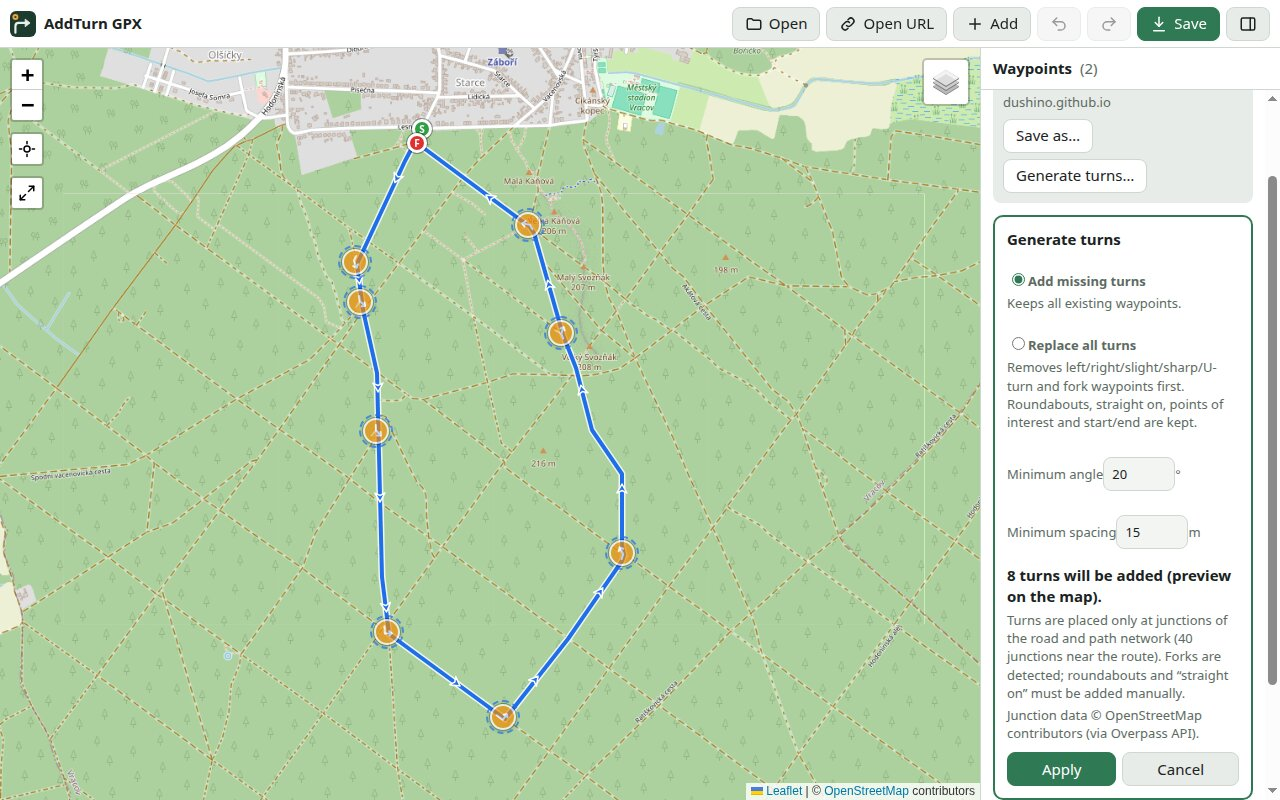
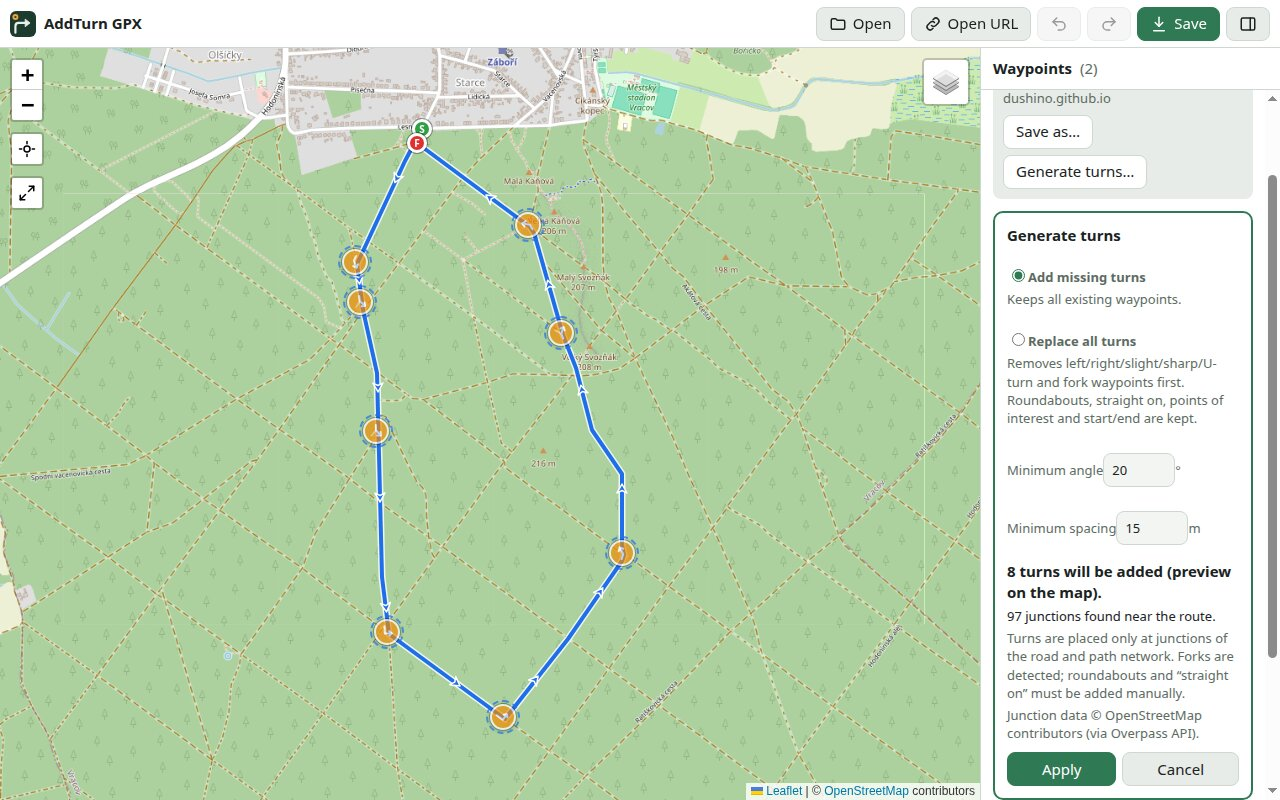
Editing reworked

diff --git a/index.html b/index.html
@@ -171,6 +171,7 @@
   #wpt-list .wname{ font-weight: 500; overflow-wrap: anywhere; }
   #wpt-list .wdesc{ color: var(--text-muted); font-size: 13px; overflow-wrap: anywhere; }
   .hint{ color: var(--text-muted); font-size: 13px; }
+  .add-hint{ margin: 0 0 10px; }
 
   /* ---------- Prvky na mapě ---------- */
   /* Waypoint: kroužek se šipkou typu odbočky (šipka natočená podle příjezdu) */
@@ -267,24 +268,6 @@
     font-size: 12px; font-weight: 600; background: #f08c00; color: #fff; vertical-align: 1px;
   }
 
-  /* Režim přidávání */
-  #add-bar{
-    position: absolute; top: 10px; left: 50%; transform: translateX(-50%);
-    display: flex; align-items: center; gap: 10px; flex-wrap: wrap; justify-content: center;
-    max-width: calc(100% - 120px);
-    padding: 8px 8px 8px 14px; border-radius: 10px;
-    background: var(--accent); color: var(--accent-text); box-shadow: var(--shadow);
-    z-index: 1150; font-weight: 600;
-  }
-  #add-bar .short{ display: none; }
-  @media (max-width: 760px){
-    #add-bar{ padding: 6px 6px 6px 12px; font-size: 14px; flex-wrap: nowrap; white-space: nowrap; max-width: calc(100% - 140px); }
-    #add-bar .short{ min-width: 0; overflow: hidden; text-overflow: ellipsis; }
-    #add-bar button{ flex: 0 0 auto; }
-    #add-bar .long{ display: none; }
-    #add-bar .short{ display: inline; }
-  }
-  body.adding #map{ cursor: crosshair; }
   .vdot{ pointer-events: none; }
 
   /* ---------- Dialog „Open URL“ ---------- */
@@ -368,10 +351,6 @@
       <svg viewBox="0 0 24 24" fill="none" stroke="currentColor" stroke-width="2" stroke-linecap="round" stroke-linejoin="round"><path d="M10 14a4 4 0 0 0 5.7 0l3-3a4 4 0 0 0-5.7-5.7l-1 1"/><path d="M14 10a4 4 0 0 0-5.7 0l-3 3a4 4 0 0 0 5.7 5.7l1-1"/></svg>
       <span class="label">Open URL</span>
     </button>
-    <button id="btn-add" disabled title="Add a waypoint: then tap the route line">
-      <svg viewBox="0 0 24 24" fill="none" stroke="currentColor" stroke-width="2" stroke-linecap="round" stroke-linejoin="round"><path d="M12 5v14M5 12h14"/></svg>
-      <span class="label">Add</span>
-    </button>
     <button id="btn-undo" disabled title="Undo (Ctrl+Z)">
       <svg viewBox="0 0 24 24" fill="none" stroke="currentColor" stroke-width="2" stroke-linecap="round" stroke-linejoin="round"><path d="M9 14 4 9l5-5"/><path d="M4 9h10.5a5.5 5.5 0 0 1 0 11H11"/></svg>
     </button>
@@ -398,10 +377,6 @@
     <div id="panel-body"></div>
   </aside>
   <div id="toast" hidden></div>
-  <div id="add-bar" hidden>
-    <span class="long">Tap the route to add a waypoint</span><span class="short">Tap the route</span>
-    <button id="add-cancel">Cancel</button>
-  </div>
 </div>
 
 <input type="file" id="file-input" hidden>
@@ -462,7 +437,8 @@ function isMobile(){ return mobileQuery.matches; }
 // ---------- Mapa ----------
 const savedView = loadJSON(VIEW_KEY, DEFAULT_VIEW);
 // Jemnější zoom: kolečko myši po ~½ úrovně (zoomSnap ¼), tlačítka +/− dál po celé úrovni
-const map = L.map("map", { zoomControl: true, zoomSnap: 0.25, zoomDelta: 1, wheelPxPerZoomLevel: 180 })
+// Dvojklik nepřibližuje: klik na trasu přidává waypoint, dvojklik by přidal a hned vybral
+const map = L.map("map", { zoomControl: true, zoomSnap: 0.25, zoomDelta: 1, wheelPxPerZoomLevel: 180, doubleClickZoom: false })
   .setView([savedView.lat, savedView.lng], savedView.zoom);
 
 // ---------- Mapové podklady ----------
@@ -1445,6 +1421,10 @@ function renderPanel(stats){
   const slot = el("div");
   slot.id = "editor-slot";
   panelBody.append(slot);
+  if (gpx.editable && trackLines.length) {
+    const tap = matchMedia("(pointer: coarse)").matches ? "Tap" : "Click";
+    panelBody.append(el("p", "hint add-hint", `${tap} the route to add a waypoint, ${tap.toLowerCase()} a waypoint to edit it.`));
+  }
 
   if (!wptItems.length) {
     panelBody.append(el("p", "empty", "No waypoints in this file."));
@@ -1492,7 +1472,7 @@ function selectWpt(i, { from }){
   const lis = panelBody.querySelectorAll("#wpt-list li");
   lis.forEach((li, j) => li.classList.toggle("selected", j === i));
   renderEditor();
-  showVertices(addMode || isEditable(w));
+  showVertices(isEditable(w));
   const editing = isEditable(w);
   if (from === "list") {
     map.setView(w.latlng, Math.max(map.getZoom(), 15), { animate: false });
@@ -1524,11 +1504,9 @@ function selectWpt(i, { from }){
 // Každá úprava vytvoří nový text souboru (změní se jen dotčený <wpt>), ten se
 // znovu načte a vykreslí. Undo/Redo drží předchozí texty v paměti.
 const editHistory = { undo: [], redo: [] };     // položky: { text, sel }
-let addMode = false;
 const vertexLayer = L.layerGroup().addTo(map);
 // Tažení značek jen bez dotykového ovládání (na dotyku by se pletlo s posunem mapy)
 const canDrag = !matchMedia("(pointer: coarse)").matches;
-const btnAdd = document.getElementById("btn-add");
 const btnUndo = document.getElementById("btn-undo");
 const btnRedo = document.getElementById("btn-redo");
 
@@ -1548,7 +1526,6 @@ function vertexData(li, idx){
 
 function updateEditButtons(){
   const hasRoute = !!(gpx && trackLines.length);
-  btnAdd.disabled = !(gpx?.editable && hasRoute);
   btnUndo.disabled = !editHistory.undo.length;
   btnRedo.disabled = !editHistory.redo.length;
 }
@@ -1750,8 +1727,7 @@ function showVertices(on){
   }
 }
 
-// ---- Režim přidávání ----
-const addBar = document.getElementById("add-bar");
+// ---- Klik do mapy: přidat / vybrat / zavřít ----
 // Je-li v editoru vybraný waypoint s typem bodu zájmu, nový bod dostane stejný
 // typ (rychlé přidávání více POI stejného druhu). Typy odboček se nepřebírají —
 // ty se navrhují podle úhlu trasy v místě nového bodu.
@@ -1760,33 +1736,52 @@ function presetAddType(){
   const c = isEditable(w) ? canonType(w.type) || "Waypoint" : null;
   return c && POI_TYPES[c] ? c : null;
 }
-function setAddMode(on){
-  addMode = on && !btnAdd.disabled;
-  document.body.classList.toggle("adding", addMode);
-  addBar.hidden = !addMode;
-  const preset = addMode ? presetAddType() : null;
-  addBar.querySelector(".long").textContent = "Tap the route to add " + (preset ? "a waypoint: " + typeLabel(preset) : "a waypoint");
-  addBar.querySelector(".short").textContent = preset ? "Tap the route: " + typeLabel(preset) : "Tap the route";
-  btnAdd.setAttribute("aria-pressed", String(addMode));
-  if (addMode && isMobile()) document.body.classList.remove("sheet-open");
-  showVertices(addMode || isEditable(wptItems[selectedWpt]));
+// Zrušit výběr waypointu a zavřít editor
+function deselectWpt(){
+  const w = wptItems[selectedWpt];
+  if (w) {
+    w.marker.closeTooltip();
+    w.marker.setIcon(iconFor(w, false));
+    w.marker.setZIndexOffset(wptZ(w));
+  }
+  selectedWpt = -1;
+  panelBody.querySelectorAll("#wpt-list li.selected").forEach(li => li.classList.remove("selected"));
+  document.getElementById("editor-slot")?.replaceChildren();
+  showVertices(false);
+  if (isMobile()) document.body.classList.remove("sheet-open");
 }
-btnAdd.addEventListener("click", () => setAddMode(!addMode));
-document.getElementById("add-cancel").addEventListener("click", () => setAddMode(false));
+// Waypoint, jehož značka je do maxPx od bodu kliknutí (nejbližší)
+const NEAR_WPT_PX = 20;
+function nearestWptPx(cp, maxPx = NEAR_WPT_PX){
+  let best = -1, bd = maxPx;
+  wptItems.forEach((w, i) => {
+    const d = map.latLngToContainerPoint(w.latlng).distanceTo(cp);
+    if (d <= bd) { bd = d; best = i; }
+  });
+  return best;
+}
 const SNAP_PX = 40;
+// Klik na trasu přidá waypoint; klik u existujícího waypointu ho vybere (editor);
+// klik jinam zruší výběr (a zavře kartu generátoru). Klik přímo na značku
+// obslouží značka sama.
 map.on("click", (e) => {
-  if (!addMode) return;
-  const target = routeTargetAt(e.containerPoint);
-  if (!target) { showToast("Tap on the route line – waypoints can only be placed on the route."); return; }
-  const preset = presetAddType();
-  setAddMode(false);
-  addWptAtTarget(target, preset);
+  if (!gpx) return;
+  const cp = e.containerPoint;
+  if (gen) {                    // otevřená karta generátoru: klik mimo trasu ji zavře, jinak nic
+    if (nearestWptPx(cp) < 0 && !routeTargetAt(cp)) closeGenerator();
+    return;
+  }
+  const near = nearestWptPx(cp);
+  if (near >= 0) { selectWpt(near, { from: "map" }); return; }
+  const target = gpx.editable ? routeTargetAt(cp) : null;
+  if (target) { addWptAtTarget(target, presetAddType()); return; }
+  deselectWpt();
 });
 
 // ---- Klávesnice ----
 window.addEventListener("keydown", (e) => {
   const typing = /^(INPUT|TEXTAREA|SELECT)$/.test(document.activeElement?.tagName);
-  if (e.key === "Escape" && addMode) { setAddMode(false); return; }
+  if (e.key === "Escape" && !typing) { if (gen) closeGenerator(); else if (selectedWpt >= 0) deselectWpt(); return; }
   if (!(e.ctrlKey || e.metaKey)) return;
   const k = e.key.toLowerCase();
   if (k === "s") { e.preventDefault(); if (gpx) saveGpx({ as: e.shiftKey }); return; }
@@ -2086,8 +2081,7 @@ function drawGenPreview(){
 
 async function openGenerator(){
   if (!gpx?.editable || !trackLines.length) return;
-  setAddMode(false);
-  if (selectedWpt >= 0) { const w = wptItems[selectedWpt]; w.marker.closeTooltip(); w.marker.setIcon(iconFor(w, false)); w.marker.setZIndexOffset(wptZ(w)); selectedWpt = -1; panelBody.querySelectorAll("#wpt-list li.selected").forEach(li => li.classList.remove("selected")); }
+  if (selectedWpt >= 0) deselectWpt();
   const saved = loadJSON(GEN_KEY, {});
   gen = { mode: "missing", minAngle: saved.minAngle ?? 20, spacing: saved.spacing ?? 15, loading: true };
   if (isMobile()) document.body.classList.add("sheet-open");
@@ -2244,7 +2238,6 @@ function setGpx(next, { fit = true, persist = true } = {}){
     next.cleanText = next.dirty ? null : next.text;   // text, který odpovídá souboru na disku
   }
   editHistory.undo.length = editHistory.redo.length = 0;
-  setAddMode(false);
   gpx = next;
   renderGpx(fit);
   if (persist) saveSession();

diff --git a/sw.js b/sw.js
@@ -6,7 +6,7 @@
 // stahované z cizích URL jdou mimo service worker přímo na síť, aby cache
 // nerostla bez omezení.
 
-const CACHE_NAME = "addturngpx-v19";
+const CACHE_NAME = "addturngpx-v20";
 const CORE_ASSETS = [
   "./",
   "./index.html",

diff --git a/README-CZ.md b/README-CZ.md
@@ -14,7 +14,7 @@ Hodinky Suunto při navigaci po trase ukazují pokyn (odboč vlevo, na rozcestí
 
 1. V **aplikaci Suunto** trasu nasdílej. Dostaneš odkaz (viz [Otevření trasy](#otevření-trasy)).
 2. V AddTurn GPX klikni na **Open URL** a odkaz vlož. Můžeš také otevřít soubor `.gpx` ze zařízení.
-3. V panelu klikni na **Generate turns…**, zkontroluj náhled na mapě a klikni na **Apply**. Nebo pokyny přidej sám tlačítkem **Add**.
+3. V panelu klikni na **Generate turns…**, zkontroluj náhled na mapě a klikni na **Apply**. Nebo pokyny přidej sám kliknutím na trasu.
 4. Klikni na **Save**.
 5. Uložený soubor naimportuj do aplikace Suunto a synchronizuj do hodinek.
 
@@ -30,7 +30,7 @@ Aplikace si pamatuje otevřený soubor i neuložené úpravy, takže zavřením 
 
 - **Mapa**: trasa se šipkami ve směru jízdy a waypointy. Tlačítka vlevo přibližují a oddalují, ukážou tvou polohu a **⤢ Fit route** ukáže celou trasu. Tlačítkem vrstev vpravo přepínáš mezi **OpenStreetMap**, **OpenTopoMap** (turistická mapa s vrstevnicemi) a **Satellite (Esri)**.
 - **Panel** (na počítači vpravo, na telefonu vysouvací panel dole): údaje o souboru, název, který ukážou hodinky (*Name on watch*), a seznam waypointů v pořadí, v jakém na ně na trase narazíš.
-- **Lišta**: Open, Open URL, Add, Undo, Redo, Save.
+- **Lišta**: Open, Open URL, Undo, Redo, Save.
 
 <img src="docs/img/mobile.jpg" alt="AddTurn GPX na telefonu" width="260">
 
@@ -58,10 +58,10 @@ Všech 78 typů waypointů, které Suunto zná, má vlastní ikonu. Další upoz
 
 ![Úprava waypointu](docs/img/editor.jpg)
 
-- **Přidání**: klikni na **Add** a pak klepni na čáru trasy. Nový waypoint se přichytí k nejbližšímu bodu trasy.
-  - Když v místě klepnutí žádný bod trasy není (dlouhý rovný úsek), aplikace vloží nový bod trasy přesně na čáru. Tvar trasy se nezmění.
+- **Přidání**: klikni (nebo klepni) na čáru trasy tam, kde ještě žádný waypoint není. Nový waypoint se přichytí k nejbližšímu bodu trasy a otevře se jeho editor.
+  - Když v místě kliknutí žádný bod trasy není (dlouhý rovný úsek), aplikace vloží nový bod trasy přesně na čáru. Tvar trasy se nezmění.
   - Typ se navrhne podle úhlu trasy v daném místě. Když je vybraný waypoint s typem bodu zájmu (třeba *Water point*), nový dostane stejný typ, takže jich rychle přidáš víc.
-- **Úprava**: vyber waypoint na mapě nebo v seznamu a otevře se editor.
+- **Úprava**: klikni na waypoint na mapě (nebo těsně vedle něj) či v seznamu a otevře se editor. Kliknutím do prázdného místa mapy nebo klávesou Esc editor zavřeš.
   - **Type (typ)**: nahoře pokyny k odbočení a kruhové objezdy, pod *Points of interest* body zájmu. Zelená tečka označuje typ navržený podle úhlu trasy.
   - **Name (název)** je nepovinný. Hodinky mohou dlouhé názvy zkrátit.
   - **◀ Previous point / Next point ▶** posunou waypoint po trase.
@@ -134,7 +134,7 @@ S jinými službami aplikace komunikuje jen kvůli těmto úkolům:
 | Ctrl+Y / Ctrl+Shift+Z | Znovu (Redo) |
 | Ctrl+S | Uložit |
 | Ctrl+Shift+S | Uložit jako… |
-| Esc | Zrušit přidávání waypointu |
+| Esc | Zavřít editor nebo kartu Generate turns |
 
 Na Macu místo Ctrl použij Cmd.
 
@@ -154,5 +154,5 @@ Na Macu místo Ctrl použij Cmd.
 - Celá aplikace je jeden soubor `index.html` (HTML, CSS a JavaScript) bez build kroku a bez závislostí kromě přiloženého Leafletu. `sw.js` je service worker pro provoz offline. Při každé změně souborů aplikace zvyš `CACHE_NAME`.
 - Spouštěj ji přes HTTP, například `python3 -m http.server` ve složce projektu, a otevři `http://localhost:8000`. Při otevření přímo ze souboru (`file://`) OpenStreetMap mapové dlaždice blokuje.
 - `samples/` obsahuje testovací soubory GPX: exporty ze Suunto, všechny typy odboček, kruhové objezdy a body zájmu, waypointy v bodech trasy, soubor ve `windows-1250` a vadné soubory.
-- `tests/` obsahuje automatické testy. Spouštějí se příkazem `node tests/run.mjs tests/generator.json tests/editing.json`, viz [tests/README.md](tests/README.md).
+- `tests/` obsahuje automatické testy. Spouštějí se příkazem `node tests/run.mjs tests/generator.json tests/editing.json tests/clicks.json`, viz [tests/README.md](tests/README.md).
 - `docs/dev/` obsahuje vývojové poznámky: rozhodnutí o návrhu, postup a seznam úkolů.

diff --git a/README.md b/README.md
@@ -14,7 +14,7 @@ Suunto watches show an instruction (turn left, keep right at a fork, …) and th
 
 1. In the **Suunto app**, share the route. You get a link (see [Opening a route](#opening-a-route)).
 2. In AddTurn GPX, click **Open URL** and paste the link. You can also open a `.gpx` file from your device.
-3. Click **Generate turns…** in the panel, check the preview on the map and click **Apply**. Or add instructions yourself with **Add**.
+3. Click **Generate turns…** in the panel, check the preview on the map and click **Apply**. Or add instructions yourself by clicking the route.
 4. Click **Save**.
 5. Import the saved file into the Suunto app and sync it to your watch.
 
@@ -30,7 +30,7 @@ The app remembers the open file and your unsaved changes, so closing the tab or 
 
 - **Map**: the route with arrows showing the direction of travel, plus the waypoints. The buttons on the left zoom in and out, show your location, and **⤢ Fit route** shows the whole route. The layers button on the right switches between **OpenStreetMap**, **OpenTopoMap** (topographic map with contour lines) and **Satellite (Esri)**.
 - **Panel** (on the right on a computer, a pull-up sheet at the bottom on a phone): file details, the name the watch will show (*Name on watch*), and the list of waypoints in the order you'll reach them on the route.
-- **Toolbar**: Open, Open URL, Add, Undo, Redo, Save.
+- **Toolbar**: Open, Open URL, Undo, Redo, Save.
 
 <img src="docs/img/mobile.jpg" alt="AddTurn GPX on a phone" width="260">
 
@@ -58,10 +58,10 @@ All 78 waypoint types that Suunto supports have their own icon. Other warnings i
 
 ![Editing a waypoint](docs/img/editor.jpg)
 
-- **Add**: click **Add**, then tap the route line. The new waypoint snaps to the nearest route point.
-  - If there is no route point near the place you tapped (a long straight section), the app adds a new route point exactly on the line. The shape of the route doesn't change.
+- **Add**: click (or tap) the route line where there is no waypoint yet. The new waypoint snaps to the nearest route point and its editor opens.
+  - If there is no route point near the place you clicked (a long straight section), the app adds a new route point exactly on the line. The shape of the route doesn't change.
   - The type is suggested from the angle of the route at that point. If a waypoint with a point-of-interest type is selected (for example *Water point*), the new one gets the same type, which makes adding several of them quick.
-- **Edit**: select a waypoint on the map or in the list to open the editor.
+- **Edit**: click a waypoint on the map (or close to it) or in the list to open the editor. Click an empty place of the map, or press Esc, to close the editor.
   - **Type**: turn instructions and roundabouts at the top, points of interest under *Points of interest*. A green dot marks the type suggested by the route angle.
   - **Name** (optional). Watches may shorten long names.
   - **◀ Previous point / Next point ▶** move the waypoint along the route.
@@ -134,7 +134,7 @@ The app talks to other services only for these tasks:
 | Ctrl+Y / Ctrl+Shift+Z | Redo |
 | Ctrl+S | Save |
 | Ctrl+Shift+S | Save as… |
-| Esc | Cancel adding a waypoint |
+| Esc | Close the editor or the Generate turns card |
 
 On a Mac, use Cmd instead of Ctrl.
 
@@ -154,5 +154,5 @@ On a Mac, use Cmd instead of Ctrl.
 - The whole app is a single `index.html` (HTML, CSS and JavaScript) with no build step and no dependencies apart from the bundled Leaflet. `sw.js` is the service worker for offline use. Increase `CACHE_NAME` whenever the app files change.
 - Run it over HTTP, for example `python3 -m http.server` in the project folder, then open `http://localhost:8000`. Opened directly as a file (`file://`), OpenStreetMap blocks the map tiles.
 - `samples/` contains test GPX files: Suunto exports, all turn types, roundabouts and points of interest, waypoints defined in route points, a `windows-1250` file and broken files.
-- `tests/` contains automated tests. Run them with `node tests/run.mjs tests/generator.json tests/editing.json`. See [tests/README.md](tests/README.md).
+- `tests/` contains automated tests. Run them with `node tests/run.mjs tests/generator.json tests/editing.json tests/clicks.json`. See [tests/README.md](tests/README.md).
 - `docs/dev/` contains development notes: design decisions, progress and the to-do list (in Czech).

diff --git a/docs/dev/PROGRESS.md b/docs/dev/PROGRESS.md
@@ -22,7 +22,7 @@ potvrzení od uživatele → další cyklus.
 | 10 | Dotykové pero na tabletu | uzavřeno bez změn — pero funguje jako přesnější prst, což uživateli vyhovuje (2026-10-16) |
 | 11 | README (EN/CZ) se snímky obrazovky | hotovo, potvrzeno uživatelem (2026-10-18) |
 | 12a | Generate turns: robustnost (chyby Overpass, cache), testy v `tests/` | implementováno, otestováno, čeká na potvrzení |
-| 12b | Přidání bodu klikem na trasu (bez tlačítka Add), klik na bod = editace | čeká na 12a |
+| 12b | Přidání bodu klikem na trasu (bez tlačítka Add), klik na bod = editace | implementováno, otestováno, čeká na potvrzení |
 
 ## Deník
 ### Cyklus 0 (2026-10-16)
@@ -180,3 +180,8 @@ potvrzení od uživatele → další cyklus.
 - **Testy v repu `tests/`:** `run.mjs` (vlastní statický server + headless Chrome + mock Overpass z `tests/fixtures/vracov-overpass.json` — data OSM API 0.6 kolem trasy Vracov, 76 cest; skutečný Overpass se v testech nevolá), `generator.json` (16 kroků vč. regrese „smazat bez uložení → znovu navrhne přesně smazané“ a „větší rozestup jen ubírá“), `editing.json` (11 kroků přesnosti textu). Vše prošlo.
 - Závěr k hlášení uživatele: logika generátoru po smazání bodů funguje; pozorování způsobil nedostupný/přetížený Overpass (aplikace to dřív hlásila jako „0 nových“ a výsledek cachovala).
 - **Hlášení uživatele po nasazení 12a (snímek):** „No junctions found near the route“ na trase Vracov. Reprodukováno: stejný dotaz na Overpass jednou vrátil 34 cest, o minutu později 0 cest bez `remark` (nejspíš vadná/přetížená instance za load balancerem). Oprava: `overpassQuery()` + v `loadJunctions` při prázdné odpovědi jedno automatické opakování po `OVERPASS_RETRY_MS` (2 s), pak chyba `OVERPASS_EMPTY` s Try again; prázdno se necachuje. Mock „empty“/„emptyOnce“ + 2 regresní testy; celkem 29/29. Cache v19.
+
+### Cyklus 12b – implementace (2026-10-18)
+- Uživatel potvrdil návrh beze změn (vč. kliku do prázdna = zavřít editor). Vlastní rozhodnutí (předloženo): dvojklik nepřibližuje (`doubleClickZoom: false`) — jinak by dvojklik na trasu přidal a hned vybral bod.
+- Odstraněno tlačítko Add, lišta režimu přidávání a `addMode`. `map.on("click")`: otevřená karta generátoru → klik mimo trasu ji zavře, jinak nic; waypoint do 20 px (`nearestWptPx`) → výběr + editor; trasa (`routeTargetAt`) → `addWptAtTarget(target, presetAddType())`; jinak `deselectWpt()` (zavře editor, na mobilu sbalí panel). Esc zavře generátor / editor. Nápověda v panelu „Click/Tap the route to add a waypoint, … a waypoint to edit it.“ Cache v20.
+- Test `tests/clicks.json` (11 kroků vč. mobilu, dlouhého úseku, generátoru); všechny sady 40/40. README EN/CZ a snímky `docs/img/` aktualizovány (bez tlačítka Add).

diff --git a/tests/README.md b/tests/README.md
@@ -3,7 +3,7 @@
 Automated tests run the app in headless Google Chrome.
 
 ```
-node tests/run.mjs tests/generator.json tests/editing.json
+node tests/run.mjs tests/generator.json tests/editing.json tests/clicks.json
 ```
 
 Requirements: Node.js 22+ and Google Chrome. The runner looks for a `google-chrome` command; set `CHROME=/path/to/chrome` if yours is elsewhere. The runner starts its own local web server for the project folder, so you don't need to run one. Set `VERBOSE=1` to print the value each step returns.
@@ -11,6 +11,7 @@ Requirements: Node.js 22+ and Google Chrome. The runner looks for a `google-chro
 | File | What it checks |
 | --- | --- |
 | `generator.json` | **Generate turns**: proposals at junctions, Apply/Undo, Add missing vs. Replace, deleting turns without saving and generating again, minimum spacing, settings, and server failures (overloaded server, empty answer with automatic retry, HTTP 429, request refused, timeout, a failed answer must not be cached) |
+| `clicks.json` | Adding by clicking the route, selecting by clicking near a waypoint, closing the editor by clicking an empty place or with Esc, type taken from a selected point of interest, phone layout, interplay with the Generate turns card |
 | `editing.json` | Exact file preservation: loading, changing a type or name, Undo/Redo, adding a waypoint on a route point, inserting a route point on a long segment (`suunto-rp:waypointIndices`), moving a waypoint, saving, `windows-1250` → UTF-8 |
 
 **The tests never contact the real Overpass API.** Requests to it are answered from `fixtures/vracov-overpass.json`, which holds OpenStreetMap data around `samples/Vracov 5km.gpx` (© OpenStreetMap contributors, ODbL), or replaced with simulated failures.

diff --git a/docs/dev/TODO.md b/docs/dev/TODO.md
@@ -40,3 +40,5 @@
 - [ ] **Nejnižší priorita (požadavek uživatele):** pro případnou další generaci aplikace analyzovat možnost plánování celé trasy (routing po síti cest, např. OSM / veřejný routovací server).
 - [ ] **Požadavek uživatele (2026-10-18, po testování):** „Přidat menu a klik levým tlačítkem myši a přepracovat logiku editace a přidání bodu.“ — upřesnit specifikaci (souvisí i s otevřeným bodem 7b). Po změně aktualizovat README (EN/CZ) a snímky.
 - [ ] Ikonu a text v aplikaci "AddTurn GPX" udělat klikací, ať vede na https://github.com/Dushino/addturngpx
+- [ ] Je možnost nějak logicky skupinovat POI? Již máme navigační instrukce, POI související s bezpečností. Ale zbývajících je hodně - pomohlo by, kdybychom měli více kategortí. Např. související s přírodou by pak mohly být zelené. Ale těch kategorí nesmí být příliš mnoho, jinak ztratí význam.
+- [ ] Ve výběru POI v postranním panelu seskupit POI podle kategorií.
